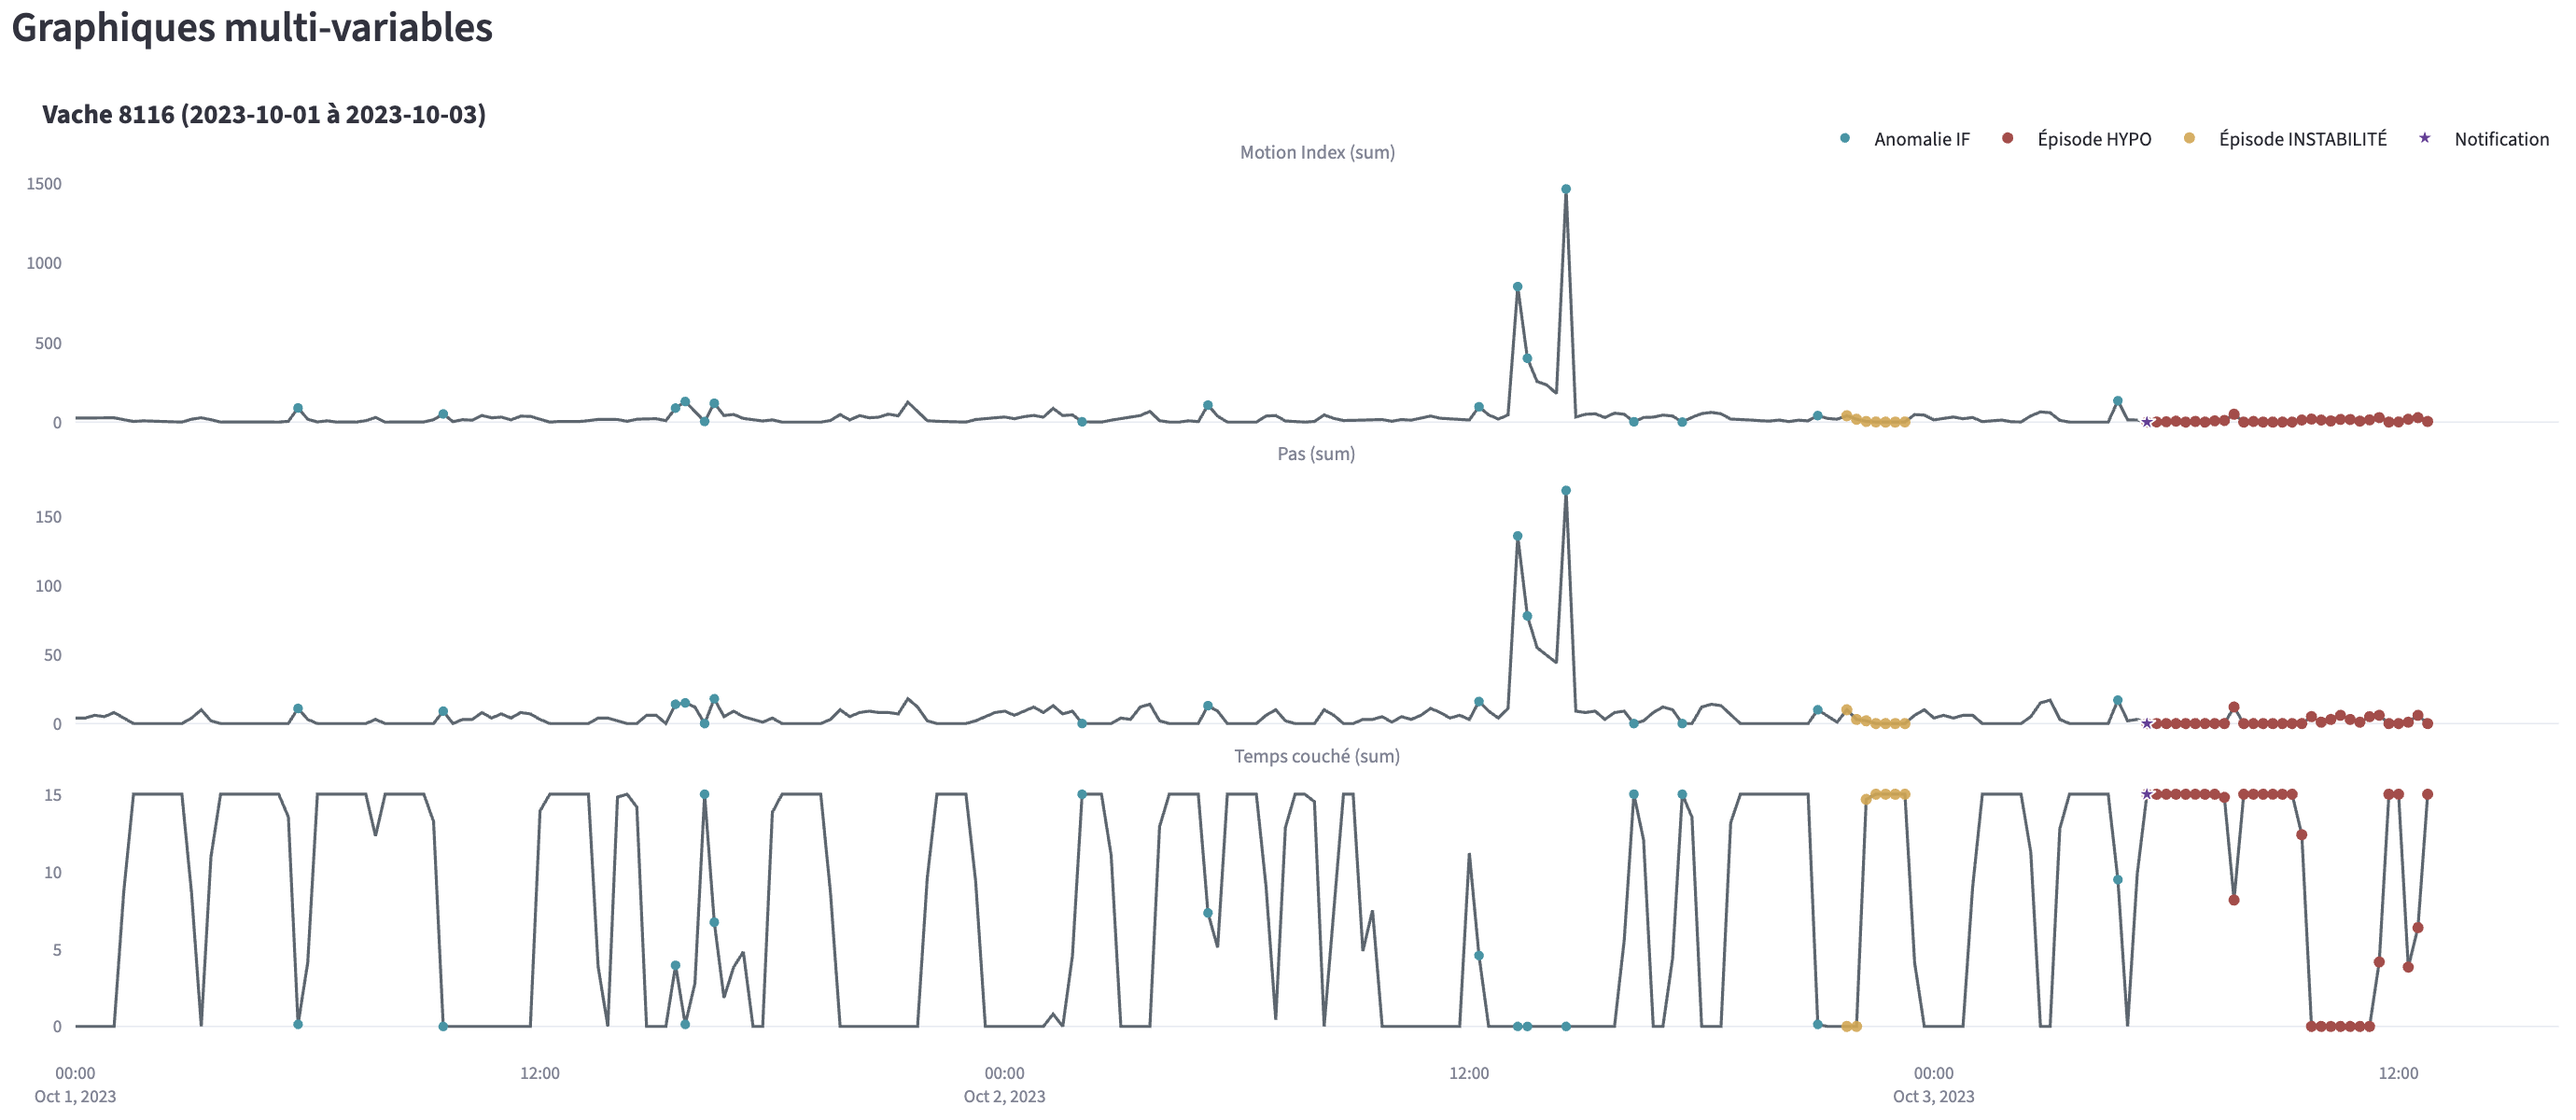
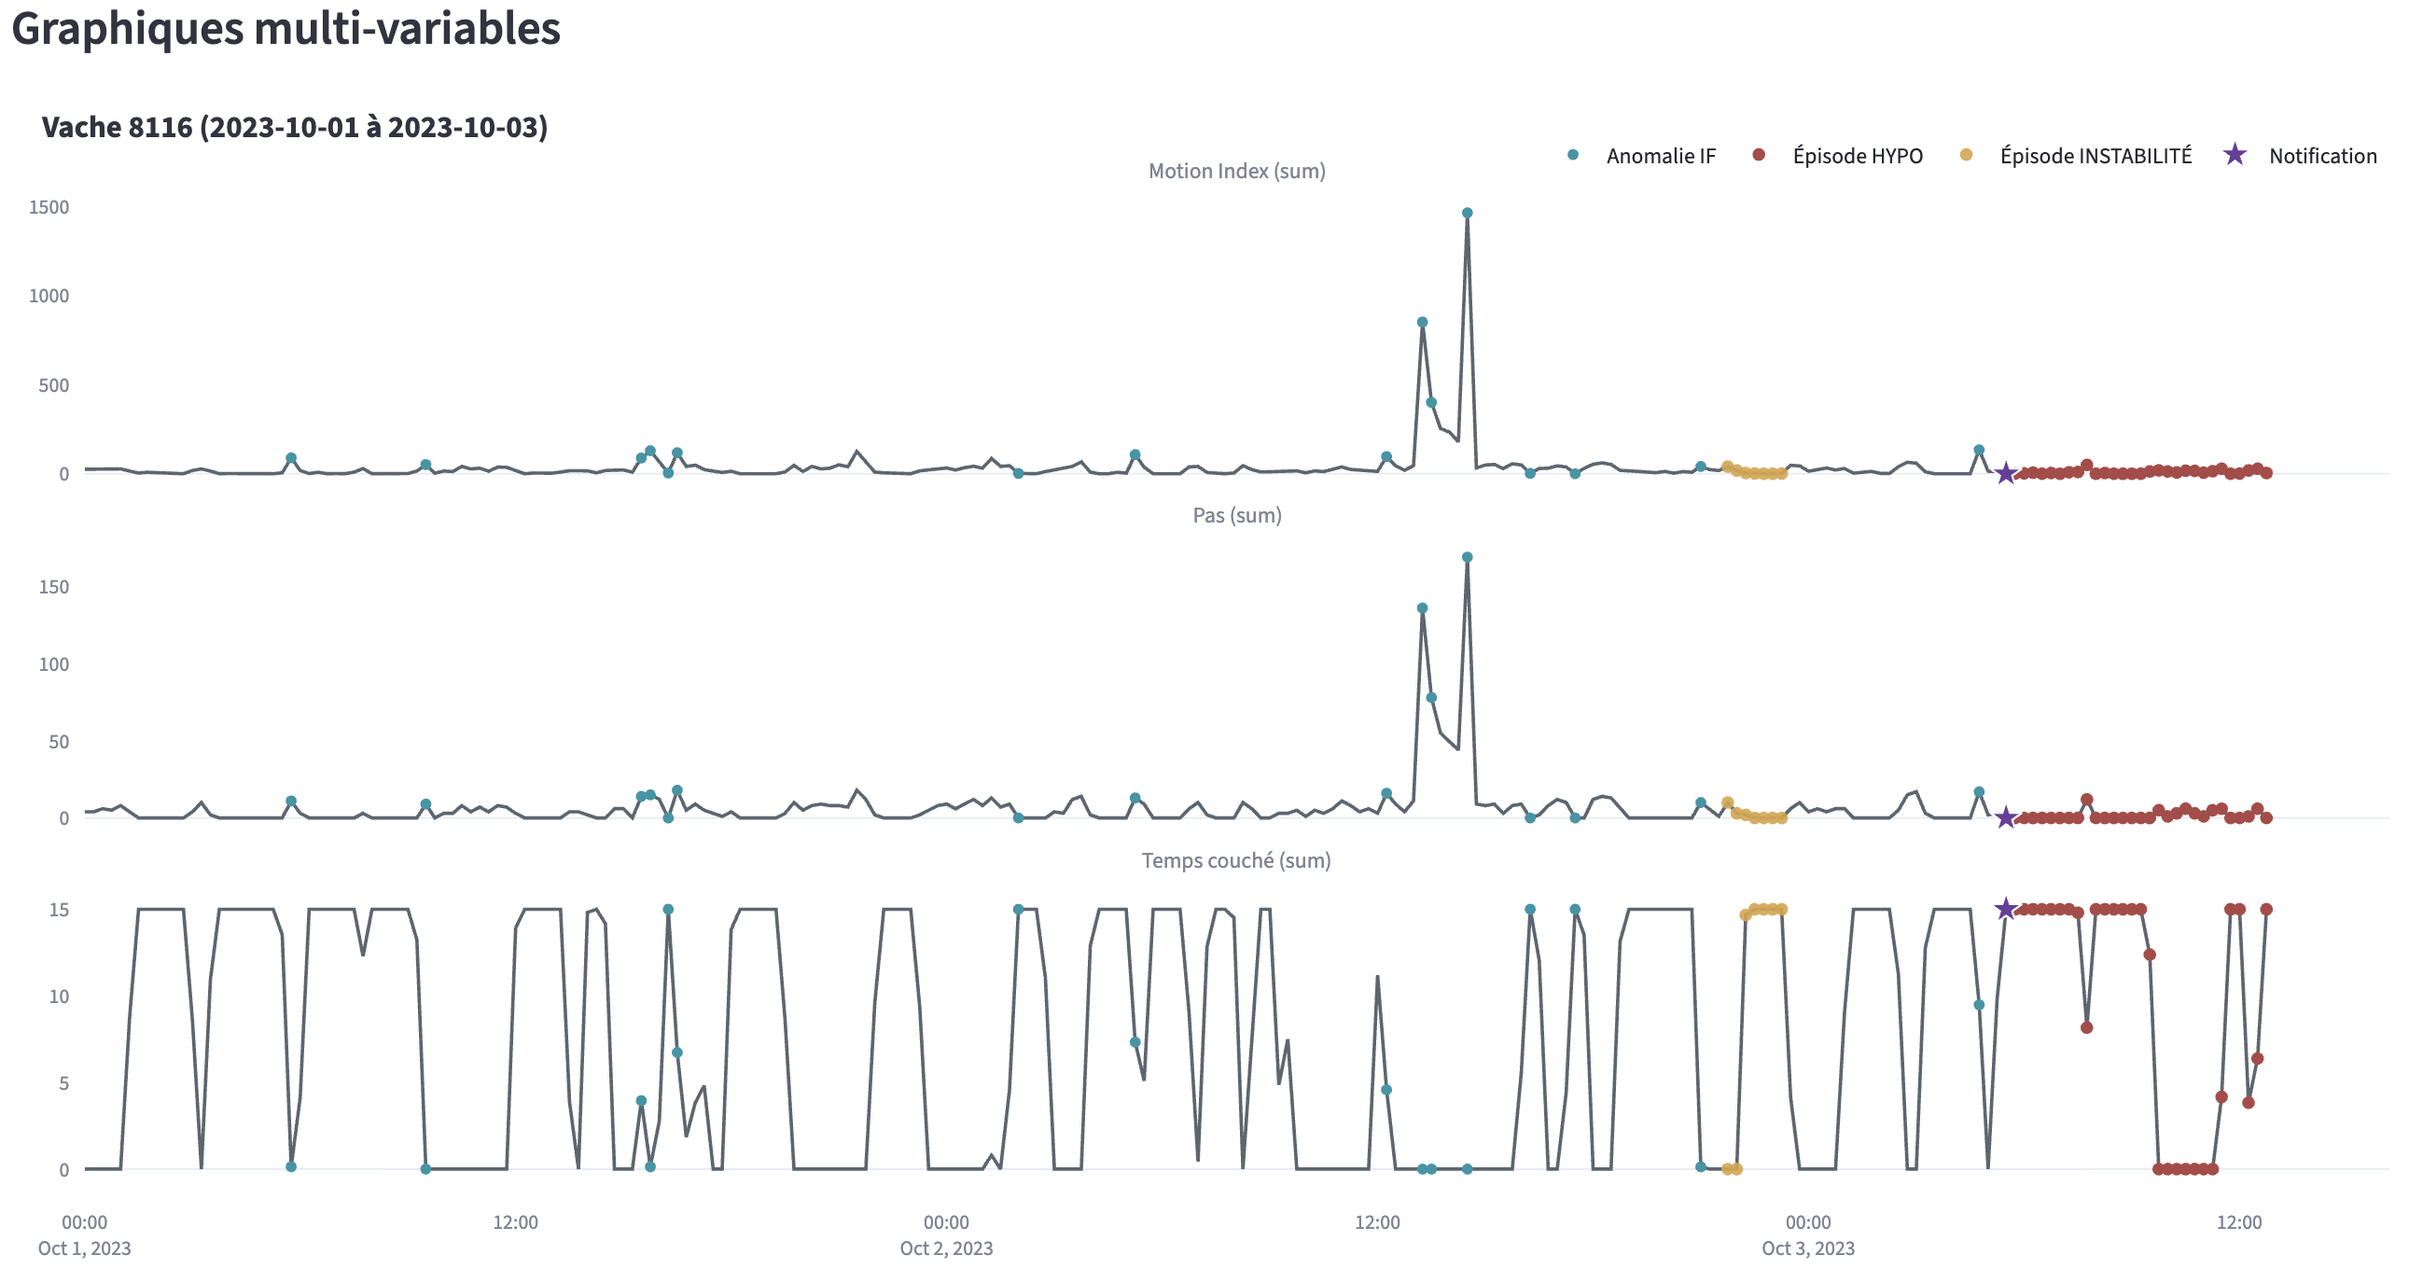
memoirev3: rendre lisible l'etoile de notification de la Figure 5.2
L'etoile violette qui marque une notification etait plus discrete que les
episodes traces autour d'elle, alors qu'elle porte l'evenement le plus
important de la vue individuelle. A diametre egal une etoile occupe bien
moins de surface qu'un disque : a 9 elle paraissait plus petite que les
episodes a 7,5.

EP_MARKER_SIZE passe donc a 14 et la capture est refaite avec les memes
parametres, vache 8116 du 1er au 3 octobre. L'etoile mesure 1,23 mm une fois
imprimee, contre 0,80 mm auparavant, et passe devant les autres marqueurs.

Changer le format de la capture avait ete envisage, mais n'aurait rien donne :
la hauteur de la page en paysage impose de reduire la largeur d'autant, et le
gain tombait a un dixieme de millimetre.

La figure occupe 22,7 x 12,0 cm pour 16,6 cm de hauteur utile, a 289 ppp. Le
document reste a 128 pages.

diff --git a/ui/plots.py b/ui/plots.py
@@ -23,7 +23,11 @@ COLOR_LAME = "#AF4646"
 LAME_MARKER_SIZE = 7.5
 COLOR_INSTABILITY = "#D9A441"
 COLOR_EP = "#6A3D9A"
-EP_MARKER_SIZE = 9.0
+# 14 et non 9 : a diametre egal une etoile porte bien moins de matiere qu'un
+# disque, si bien que la notification, marqueur le plus important de la vue,
+# paraissait plus discrete que les episodes traces a 7,5. A 14 elle passe
+# devant eux, et de 0,80 a 1,24 mm une fois la capture imprimee au chapitre 5.
+EP_MARKER_SIZE = 14.0
 
 # Vignettes « Vaches a verifier en priorite ». Le bleu tres pale employe
 # jusqu'ici se lisait mal une fois la vignette reduite. Ces deux teintes sont
